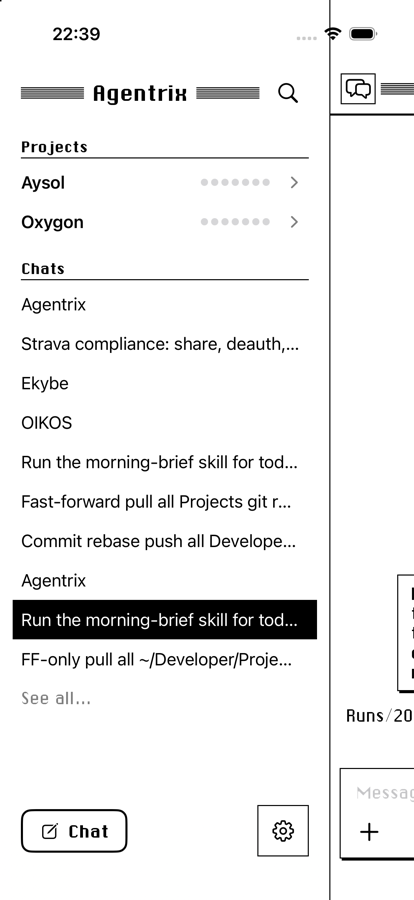
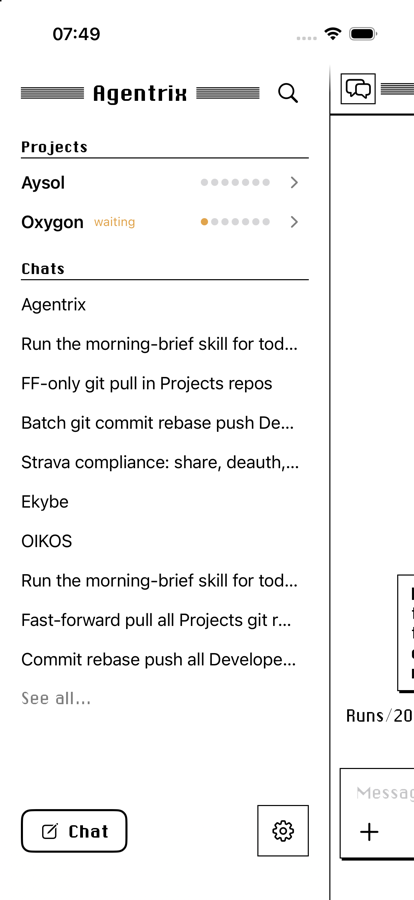
Pane line on a phone: starts below the status bar and fades in, as Ekybe's drawer

diff --git a/README.md b/README.md
@@ -266,10 +266,10 @@ Ekybe's team writes a quarter of its messages in Greek, so Greek is first-class.
 | Rule under a window title bar or a pane header | **2px** | ink |
 | Rule above the composer / a footer bar | 2px | ink |
 | Rule between menu groups | 1px dotted | ink |
-| Separator between two panes side by side | **1px** (1pt on a phone), full height | ink |
+| Separator between two panes side by side | **1px** (1pt on a phone), full height; on a phone from below the status bar, fading in over 28pt | ink |
 | Disabled outline | 1px (2px on the default button) | muted |
 
-**Panes side by side** are parted by one thin ink line running their full height (on a phone, from the very top through the status bar to the bottom): no shadow under it, no dither gutter, no thick edge. This is how Ekybe draws its sidebar against the conversation, and Roberto preferred it to Agentrix's iPhone drawer, which had a 3pt edge starting under the status bar plus a hard shadow (4 Oct 2026). A pane that can be dragged wider keeps the same line; the drag target is an invisible strip a few pixels either side of it.
+**Panes side by side** are parted by one thin ink line running their full height: no shadow under it, no dither gutter, no thick edge. On a phone the line never enters the status bar: it starts just below it (under the clock and Wi-Fi) and fades in from nothing over its first 28pt, as Ekybe's drawer does. Drawn up through the status bar it looked broken (Roberto, 5 Oct 2026). This is how Ekybe draws its sidebar against the conversation, and Roberto preferred it to Agentrix's iPhone drawer, which had a 3pt edge starting under the status bar plus a hard shadow (4 Oct 2026). A pane that can be dragged wider keeps the same line; the drag target is an invisible strip a few pixels either side of it.
 
 ![The pane line on a phone (Agentrix's drawer)](images/pane-line-iphone.png)
 
@@ -792,6 +792,7 @@ The untouched original is kept in `fonts/source/ChicagoFLF.ttf`. To add another 
 | 4 Oct | Message text size: 5 steps, message text and composer only, per device | "can we have a setting for font size as well?" |
 | 4 Oct | Menus drawn 1984 style, version B: Chicago, 21px rows, line icons kept, reversed row, dotted separators, submenus, keyboard | Agentrix mockup A (pure) / B (with icons) / B at night; Roberto chose B. Ekybe follows. |
 | 4 Oct | Panes parted by one thin ink line, full height, no shadow or gutter | Roberto, from Ekybe's sidebar on a phone: "I like this design better" than Agentrix's thick drawer edge |
+| 5 Oct | On a phone the line starts below the status bar and fades in | Drawn through the status bar it "broke the view"; Ekybe's fades out before the clock and Wi-Fi |
 | 4 Oct | Phone menus: the same 1984 menu, 44pt rows, placed by the button, submenus in place | "We fixed the menu style in desktop, can you do the same for mobile as well?" |
 | 4 Oct | Panels switch instantly with their layers hidden for two frames | Agentrix left the old separator on screen for a few milliseconds when a side panel opened or closed |
 
